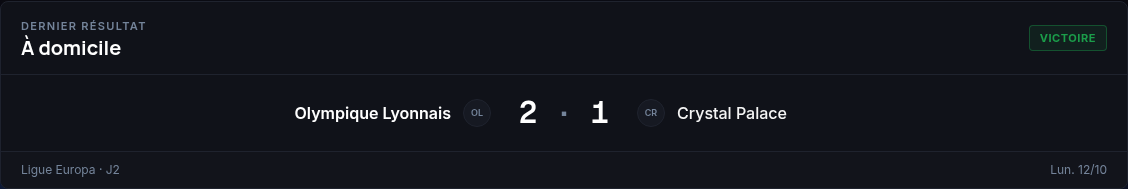
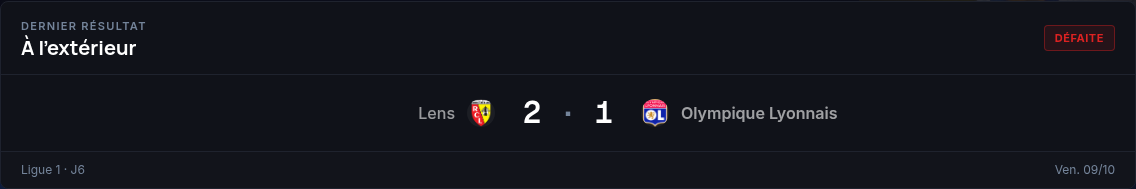
fix(L131): Nouveautés — capture réelle (Lens 2-1 Lyon) au lieu d'un résultat inventé

diff --git a/docs/nouveautes/2026-10-13-accueil-le-dernier-resultat-toutes-competitions-confondues.md b/docs/nouveautes/2026-10-13-accueil-le-dernier-resultat-toutes-competitions-confondues.md
@@ -3,8 +3,8 @@ title: "Accueil : le dernier résultat, toutes compétitions confondues"
 date: 2026-10-13
 created: 2026-10-13T08:48+02:00
 lots: [L131]
-captures: [{ file: captures/L131-dernier-resultat.png, alt: "Carte « Dernier résultat » de l'accueil affichant Lyon – Crystal Palace en Ligue Europa, journée 2" }]
+captures: [{ file: captures/L131-dernier-resultat.png, alt: "Carte « Dernier résultat » de l'accueil affichant Lens 2-1 Lyon, Ligue 1 journée 6, vendredi 09/10" }]
 # une capture peut dire ce qu'elle montre : captures: [{ file: captures/x.png, alt: "texte alternatif" }]
 # nocapture: raison, quand une capture n'a pas de sens
 ---
-La carte « Dernier résultat » de l'accueil montre maintenant le dernier match joué, toutes compétitions confondues, et plus seulement celui de Ligue 1. Après Lyon – Crystal Palace, elle l'affiche (compétition et journée en bas de la carte, ou le tour pour un match sans journée) au lieu de rester sur Lens, comme le fait déjà le bandeau « Prochain rendez-vous ». Si le chargement échoue, les deux blocs le disent ensemble, et un seul « Réessayer » les rétablit.
+La carte « Dernier résultat » de l'accueil montre maintenant le dernier match joué, toutes compétitions confondues, et plus seulement celui de Ligue 1. Dès qu'un match de Ligue Europa, de Ligue des champions ou de Coupe de France est joué, elle l'affiche (compétition et journée en bas de la carte, ou le tour pour un match sans journée) au lieu de rester sur le dernier match de Ligue 1 (Lens, le 09/10), comme le fait déjà le bandeau « Prochain rendez-vous ». Si le chargement échoue, les deux blocs le disent ensemble, et un seul « Réessayer » les rétablit.
